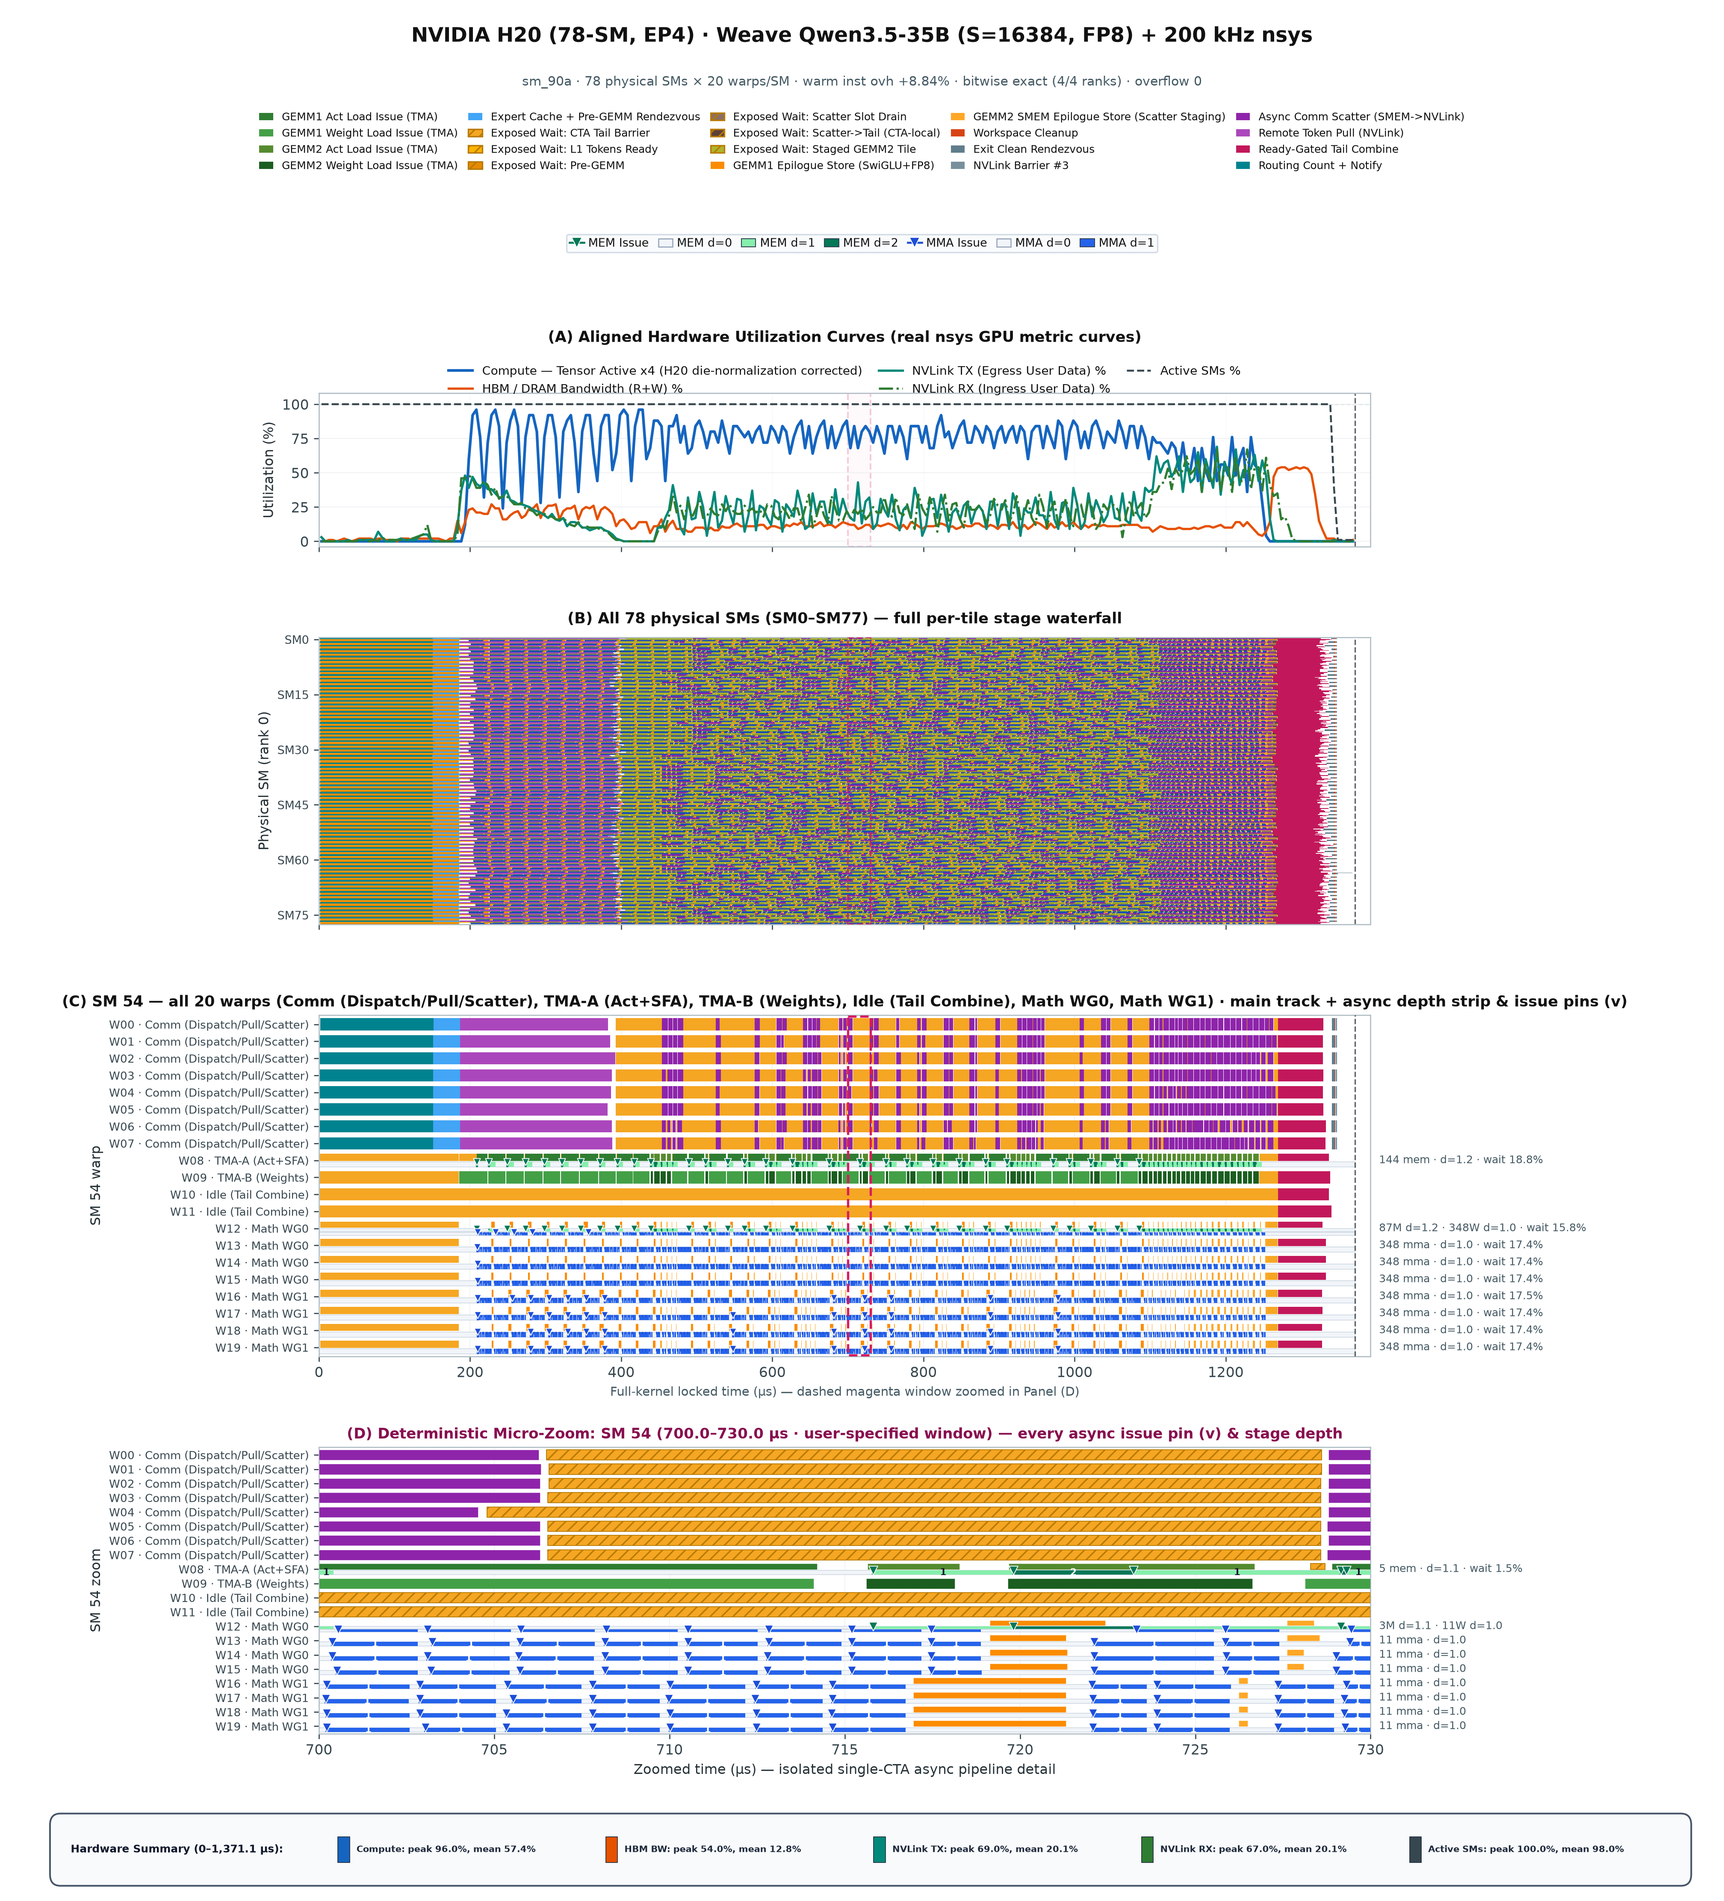
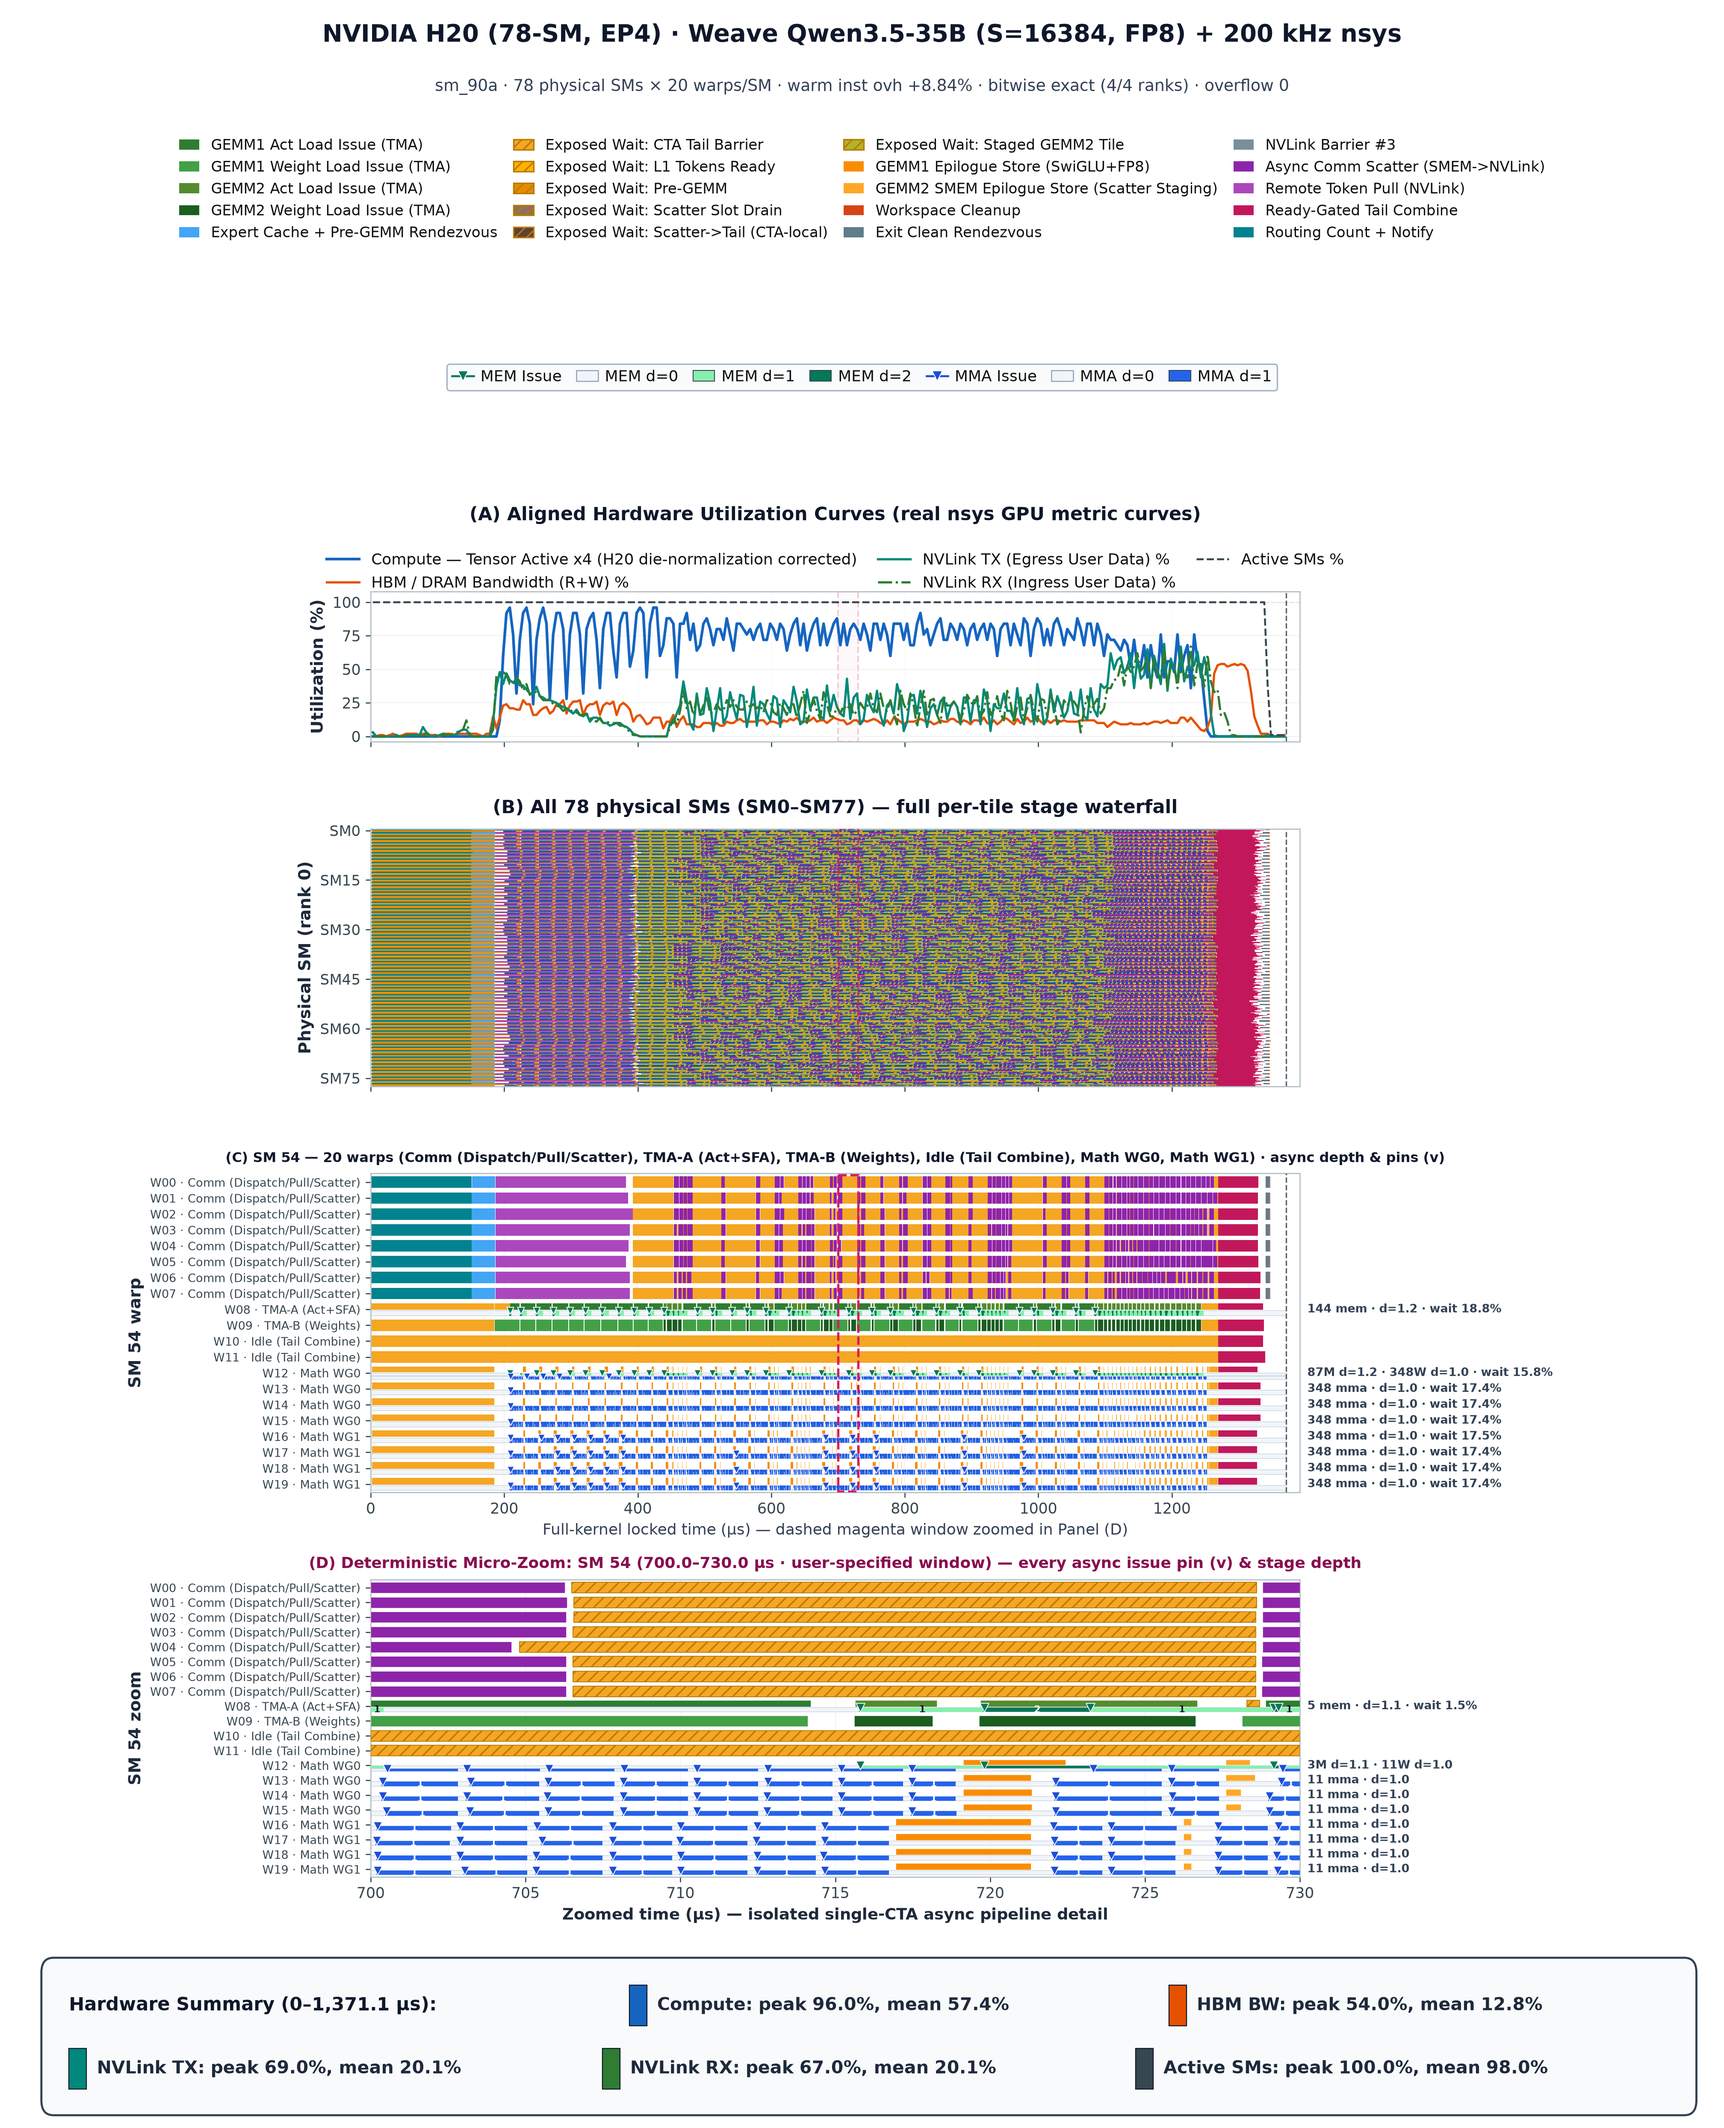
修复WeaveProfiler软硬件时间线字体与排版，恢复双机16卡MI308X EP16实测时间线

Changed region(s): [[0.0312, 0.1242, 0.9688, 1.0], [0.0938, 0.0, 0.8438, 0.1242]]

diff --git a/README_zh.md b/README_zh.md
@@ -80,7 +80,7 @@ python -c "from deep_gemm.mega import SymmBuffer, weave_mega_moe"
 
 - **NVIDIA SM103 (148-SM)，4x EP4，`Qwen3.8-2.4T S=1024`（`FP8 x NVFP4`）**：200 kHz `nsys` 硬件采样对齐全部 148 个物理 SM 与 SM 42 的 16 个 warp。首部 `V_HEAD` 协助拉取快速喂满首轮输入，主体阶段 HBM 带宽峰值达 **`92.0%`**（全程均值 `72.8%`）、活跃 SM 均值 **`98.6%`**，Panel C/D 同步呈现逐 warp 的 `MEM d=0..19` 与 `MMA d=0..1` 异步流水线在途深度带及发射针标。
 - **NVIDIA H20 (78-SM)，4x EP4，`Qwen3.5-35B S=16384`（`FP8`）**：200 kHz `nsys` 硬件采样对齐 78 个物理 SM 与 SM 54 的 20 个 warp。通信 warp（`W00..W07`）在完成远端拉取后无缝切换为后台 `smem` 异步 Scatter，使 Tensor Core 利用率持续稳定在 **`75%–96%`**，Panel C/D（`700–730 us`）清晰展示 `MEM d=0..2`、`MMA d=0..1` 异步流水深度与 `NVLink Scatter` 的三路并发重叠。
-- **AMD MI308X (80-CU)，8x EP8，`Qwen3.8-2.4T S=8192`（`FP8`）**：`rocprofiler-sdk` 硬件计数器同步对齐全部 80 个物理 CU 与混合单元 `CU 28` 的 8 个 `Wave64`（预热插桩开销 `+6.58%`，`0 spill`）。`W00..W03` 持续运行 Stage-1/Stage-2 MFMA 计算并记录 `MEM d=1..2` 与 `MMA d=1` 流水深度及发射针标，`W04..W07` 在 `9314–9352 us` 微观窗口内并发执行 `xGMI` 异步 Scatter（HBM 带宽峰值 **`73.0%`**，`xGMI TX` 峰值 **`38.0%`**，活跃 CU 均值 **`99.9%`**）。
+- **AMD MI308X (80-CU)，双机 16x EP16，`Qwen3.8-2.4T S=16384`（`FP8`）**：`rocprofiler-sdk` 硬件计数器同步对齐全部 80 个物理 CU（`0–6,633.0 us`，`overflow 0`，`256 VGPR / 0 spill`），展示 `(0,8)` 纯计算 CU 与 `(4,4)` 通算混合 CU 的跨单元协同；在混合单元 `CU 62`（`3520–3820 us` 微观窗口）上，`W00..W03` 持续运行 Stage-1/Stage-2 MFMA 计算，`W04..W07` 并发重叠节点间 RDMA 与节点内 `xGMI` 传输，FP8 Matrix Core 峰值利用率达 **`70.4%`**（全程均值 `47.0%`）、节点内 `xGMI TX` 峰值 **`60.5%`**、活跃 CU **`100.0%`**。
 
 ## 统一核心 WEAVE_* 参数
 

diff --git a/README.md b/README.md
@@ -80,7 +80,7 @@ Each 4-panel timeline is captured from a single execution aligning cycle-accurat
 
 - **NVIDIA SM103 (148-SM), 4x EP4, `Qwen3.8-2.4T S=1024` (`FP8 x NVFP4`)**: 200 kHz `nsys` capture across all 148 SMs and all 16 warps of SM 42. Helper pull (`V_HEAD`) populates initial tiles rapidly, sustaining **`92.0%`** peak HBM bandwidth (`72.8%` mean) and **`98.6%`** mean active SMs, while Panels C/D resolve per-warp `MEM d=0..19` and `MMA d=0..1` asynchronous pipeline depth strips and issue pins.
 - **NVIDIA H20 (78-SM), 4x EP4, `Qwen3.5-35B S=16384` (`FP8`)**: 200 kHz `nsys` capture across all 78 SMs and all 20 warps of SM 54. Freed communication warps (`W00..W07`) transition directly from remote pull into `smem` async scatter, keeping Tensor Core activity at **`75%–96%`** while Panels C/D (`700–730 us`) show concurrent `MEM d=0..2`, `MMA d=0..1`, and `NVLink Scatter`.
-- **AMD MI308X (80-CU), 8x EP8, `Qwen3.8-2.4T S=8192` (`FP8`)**: `rocprofiler-sdk` PMC capture across all 80 CUs and all 8 `Wave64` tracks of hybrid `CU 28` (`+6.58%` warm instrumentation overhead, `0 spill`). `W00..W03` sustain Stage-1/Stage-2 MFMA compute with `MEM d=1..2` and `MMA d=1` pipeline depth strips and issue pins while `W04..W07` overlap `xGMI` async scatter inside the `9314–9352 us` micro-zoom (**`73.0%`** peak HBM bandwidth, **`38.0%`** peak `xGMI TX`, **`99.9%`** mean active CUs).
+- **AMD MI308X (80-CU), 2-node 16x EP16, `Qwen3.8-2.4T S=16384` (`FP8`)**: `rocprofiler-sdk` PMC capture across all 80 CUs (`0–6,633.0 us`, `overflow 0`, `256 VGPR / 0 spill`) showing co-resident `(0,8)` compute-rich CUs and `(4,4)` hybrid CUs; on hybrid `CU 62` (`3520–3820 us` micro-zoom), `W00..W03` sustain Stage-1/Stage-2 MFMA compute while `W04..W07` overlap inter-node RDMA and intra-node `xGMI` transfers, reaching **`70.4%`** peak FP8 Matrix Core utilization (`47.0%` mean), **`60.5%`** peak intra-node `xGMI TX`, and **`100.0%`** active CUs.
 
 ## Unified core WEAVE_* parameters
 
